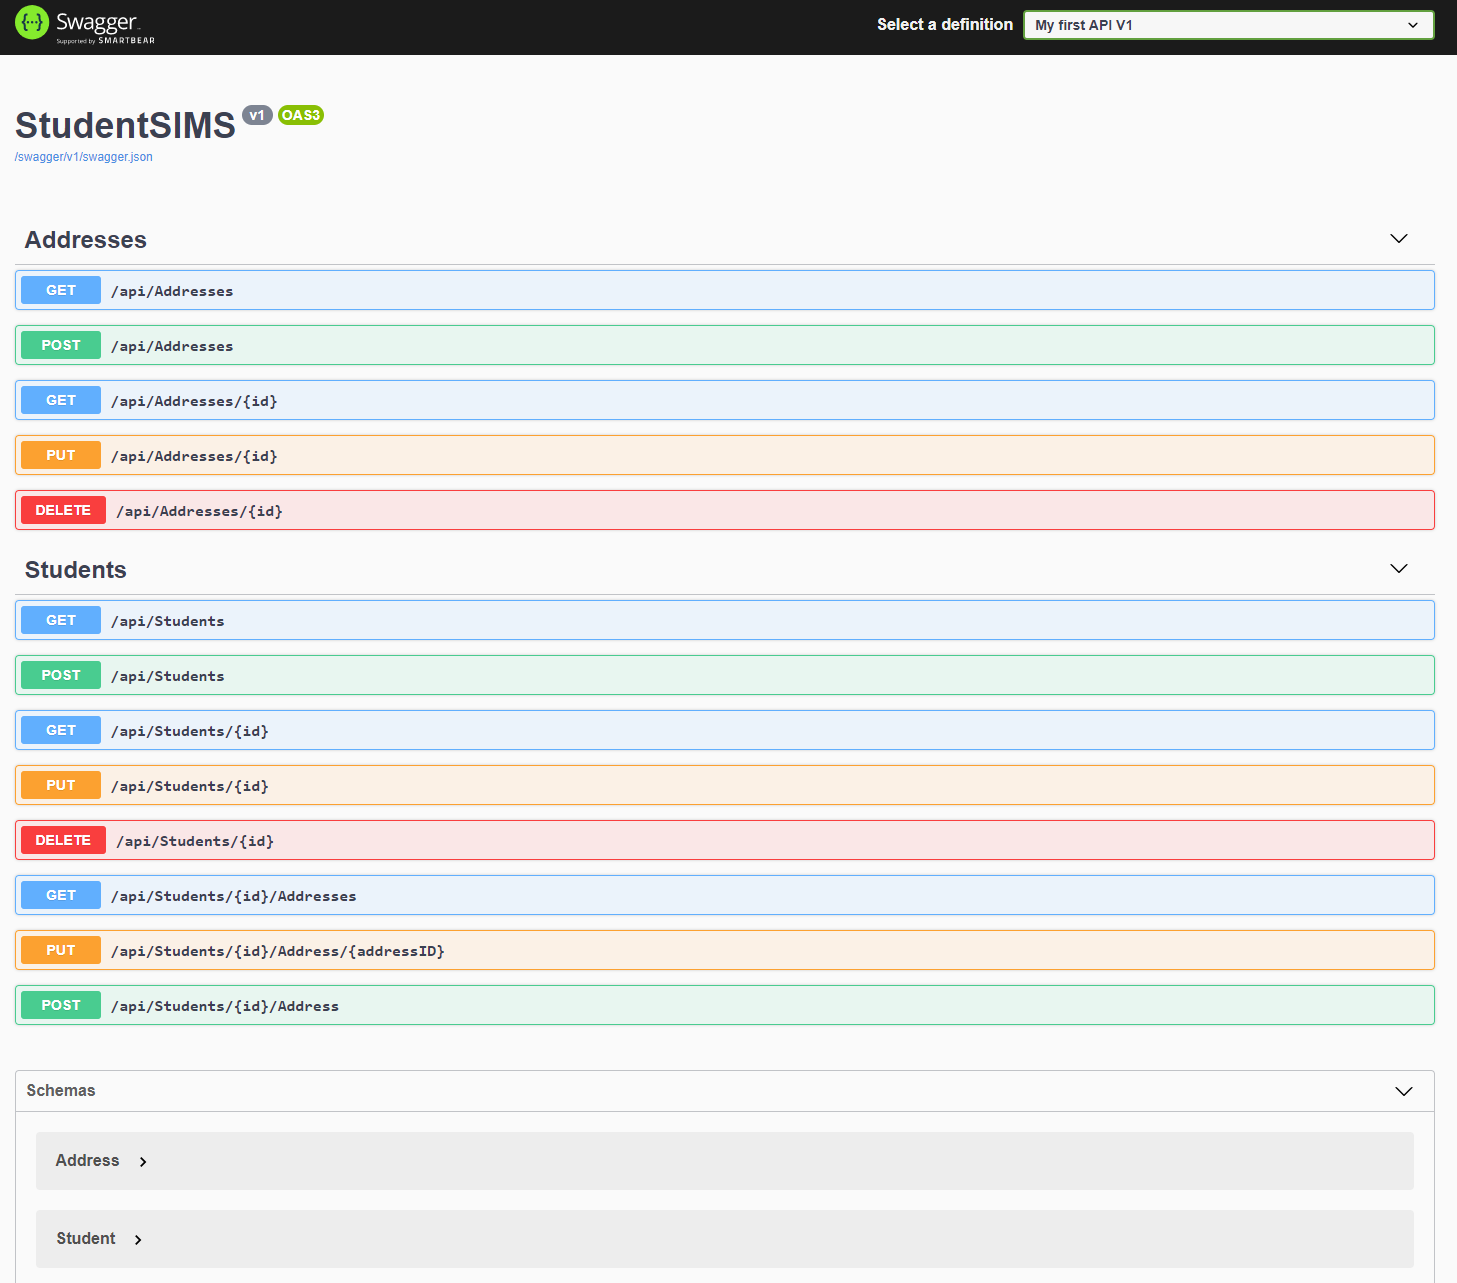
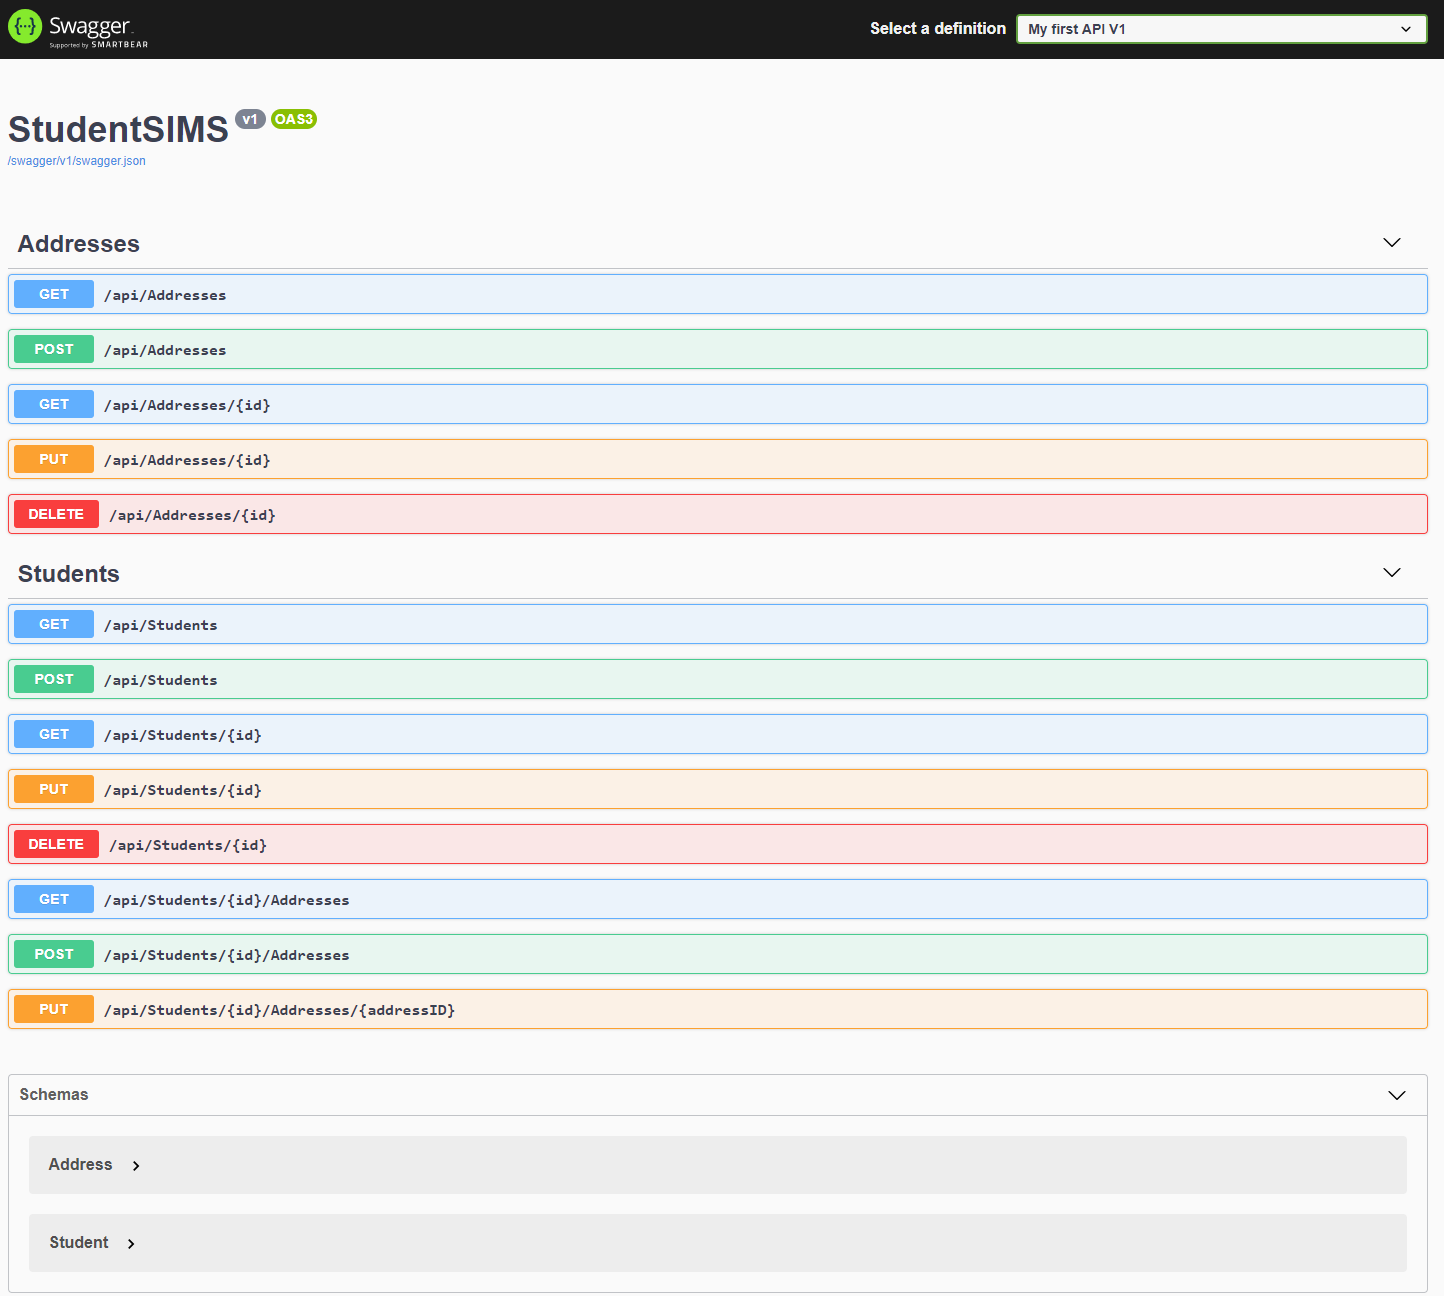
Test Auto Deploy

diff --git a/StudentSIMS/Controllers/StudentsController.cs b/StudentSIMS/Controllers/StudentsController.cs
@@ -125,7 +125,7 @@ namespace StudentSIMS.Controllers
             return addresses;
         }
 
-        [HttpPut("{id}/Address/{addressID}")]
+        [HttpPut("{id}/Addresses/{addressID}")]
         public async Task<IActionResult> PutStudentAddress(int id, int addressID, Address address)
         {
             if (id != address.studentId || addressID != address.addressId)
@@ -153,7 +153,7 @@ namespace StudentSIMS.Controllers
             return NoContent();
         }
 
-        [HttpPost("{id}/Address")]
+        [HttpPost("{id}/Addresses")]
         public async Task<IActionResult> PostStudentAddress(int id, Address address)
         {
             if (!StudentExists(id))
